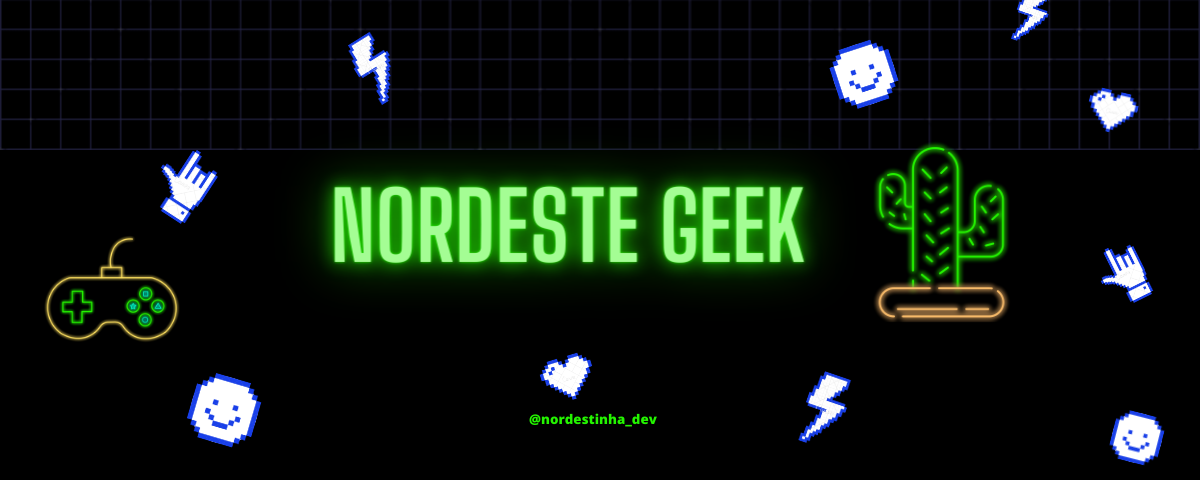
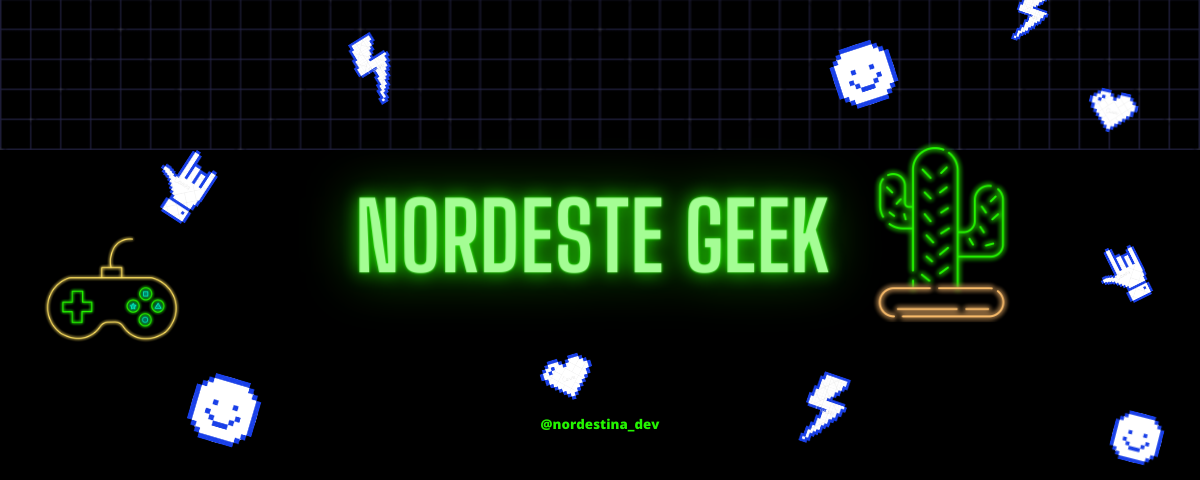
update imagem

Changed region(s): [[0.2467, 0.3438, 0.7092, 0.5938], [0.4317, 0.8438, 0.555, 0.9062]]

diff --git a/style.css b/style.css
@@ -6,7 +6,7 @@
 
 .banner {
   width: 100%;
-  background-image: url(./imagens/banner.jpg);
+  background-image: url(./imagens/banner.png);
   background-size: cover;
   background-position: center;
 }
@@ -15,7 +15,7 @@ h1 {
   margin: 10px auto;
   font-family: monospace;
   color: green;
-  transition: ease-in 2s;
+  transition: ease-in 3s;
 }
 
 .banner img {
@@ -25,7 +25,7 @@ h1 {
 }
 
 .container {
-  width: 0%;
+  width: 100%;
   font-family: Arial, Helvetica, sans-serif;
   margin: 0 auto;
   display: flex;
